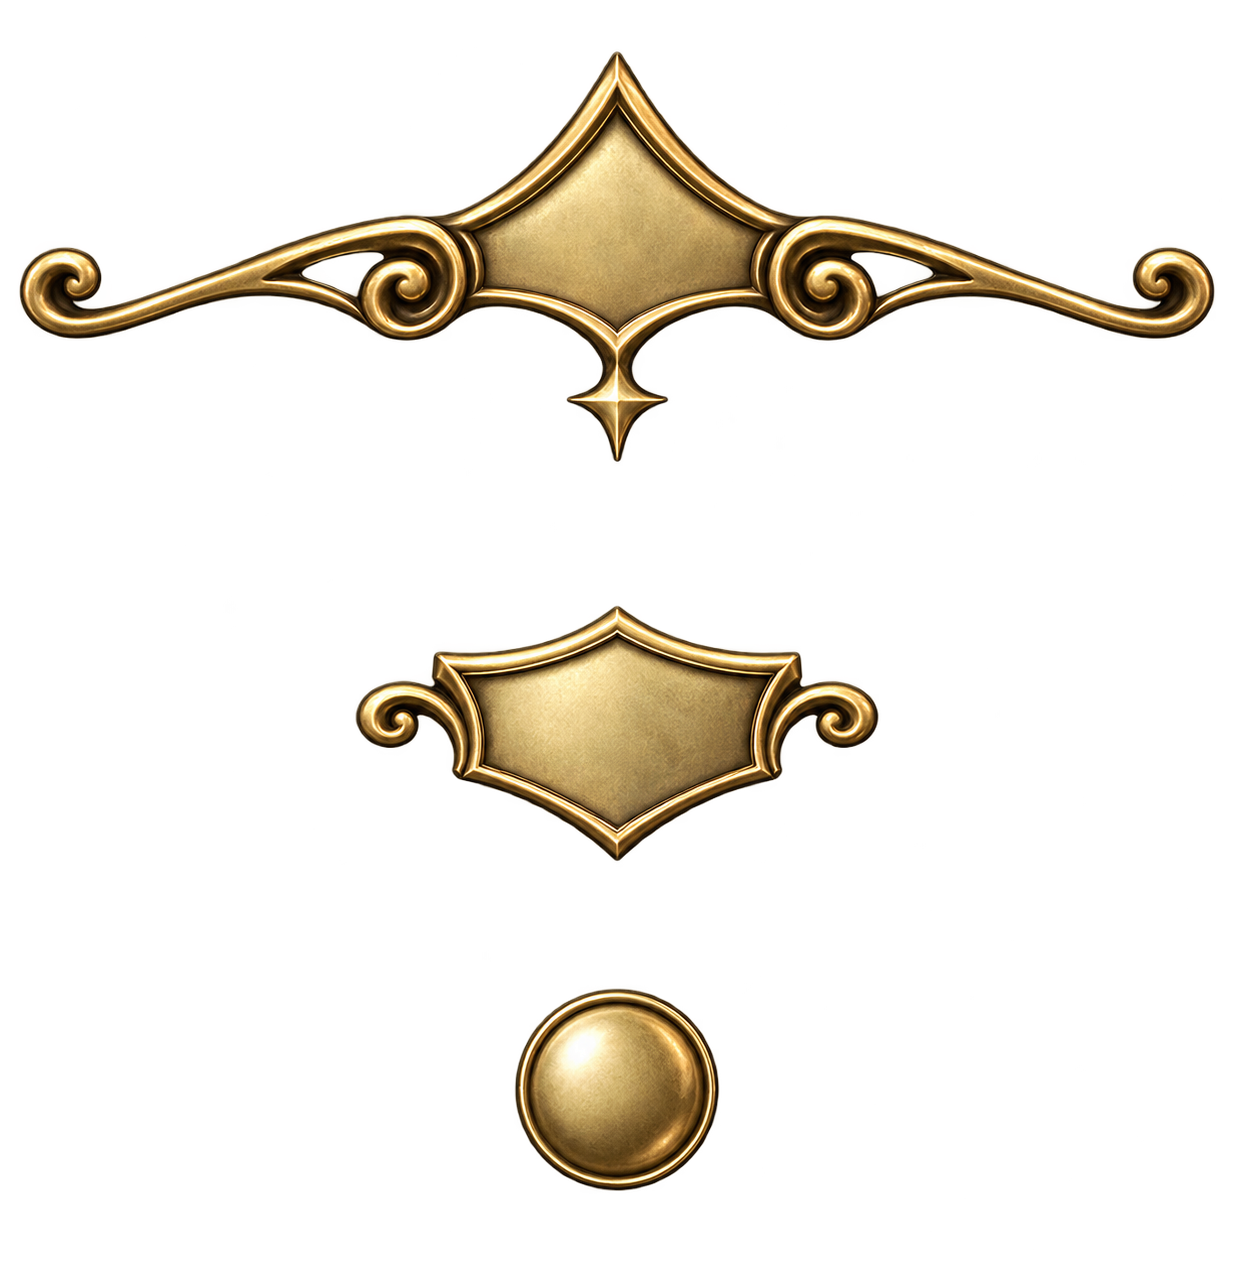
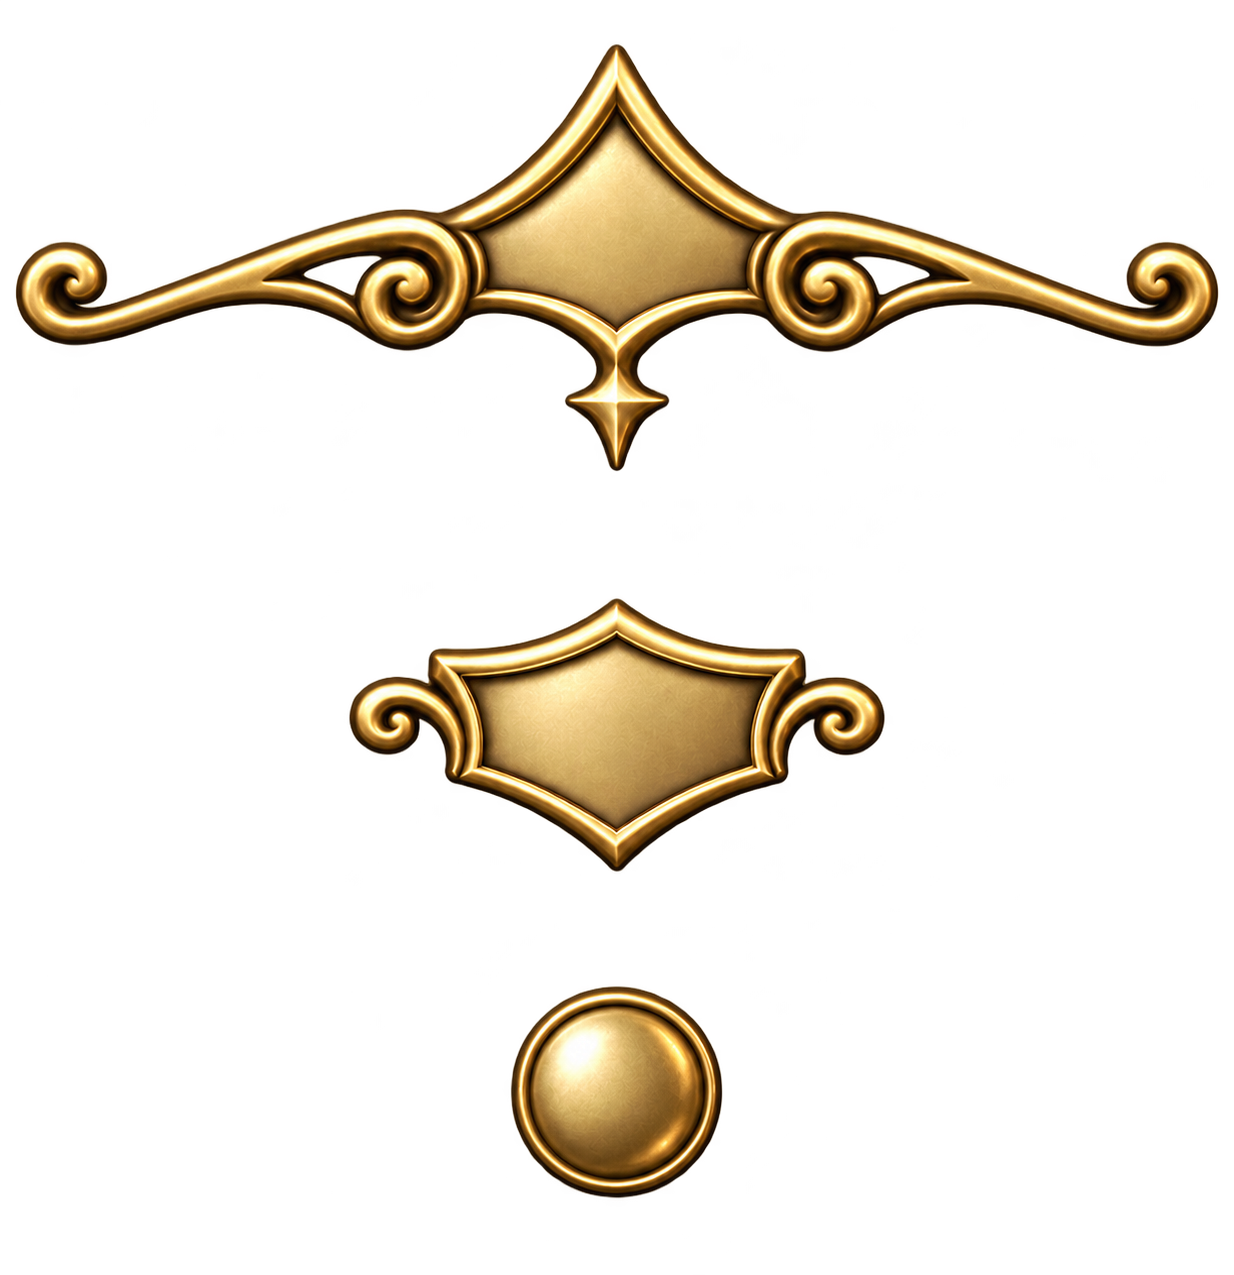
Restore ornate compass fittings with thicker details and smaller side letters

Changed region(s): [[0.0, 0.0306, 0.9854, 0.3673], [0.2771, 0.4592, 0.7391, 0.7041], [0.4003, 0.7653, 0.5851, 0.949]]

diff --git a/css/compass_hud.css b/css/compass_hud.css
@@ -338,28 +338,33 @@ body.compass-hud #compass-inventory-shutter {filter:brightness(.85);}
 body:not(.compass-round) .compass-bearing {display:none;}
 .compass-rim-art {display:block;width:100%;height:100%;overflow:visible;}
 .compass-bearing span {position:absolute;display:grid;place-items:center;width:6%;height:6%;padding:0;transform:translate(-50%,-50%);filter:brightness(1.18) drop-shadow(0 2px 2px #000c) drop-shadow(0 0 1px #000);}
-.compass-bearing b {display:block;font:700 calc(var(--compass-map-size) * .036) / 1 Georgia,serif;color:#3e2b15;text-shadow:0 .65px .2px #f7e4b3;transform-origin:center;}
+.compass-bearing b {display:block;font:700 calc(var(--compass-map-size) * .036 - 1pt) / 1 Georgia,serif;color:#3e2b15;text-shadow:0 .65px .2px #f7e4b3;transform-origin:center;}
 .compass-bearing .compass-north {left:50%;top:calc(3% - 4px);}
 .compass-bearing .compass-north b {font-size:calc(var(--compass-map-size) * .043);}
 .compass-bearing .compass-east {left:calc(98% + 4px);top:50%;}
 .compass-bearing .compass-south {left:50%;top:calc(98% + 4px);}
 .compass-bearing .compass-west {left:calc(2% - 4px);top:50%;}
 
-/* Broad, clean fittings stay legible at phone size. Each direction uses a
-   standalone vector, so atlas neighbours and textured alpha cannot bleed in. */
+/* Preserve each atlas rectangle's native aspect ratio; never stretch the metal.
+   Generated transparent PNG fittings; CSS selects atlas rectangles without
+   resampling the master. Background coordinates are recorded in the art manifest. */
 .compass-bearing span::before,.compass-bead {
-  content:'';position:absolute;background-repeat:no-repeat;background-size:100% 100%;pointer-events:none;
+  content:'';position:absolute;background-image:url('../assets/ui/compass/gold-fittings.png');
+  background-repeat:no-repeat;pointer-events:none;
 }
-.compass-bearing span::before {left:50%;top:50%;width:140%;height:auto;aspect-ratio:2 / 1;transform:translate(-50%,-50%);background-image:url('../assets/ui/compass/cardinal-fitting.svg');}
+.compass-bearing span::before {left:50%;top:50%;width:140%;height:auto;aspect-ratio:546 / 284;transform:translate(-50%,-50%);}
 .compass-bearing b {position:relative;z-index:1;}
-.compass-bearing .compass-north::before {width:330%;aspect-ratio:3 / 1;background-image:url('../assets/ui/compass/north-fitting.svg');}
+.compass-bearing .compass-north::before {width:330%;height:auto;aspect-ratio:1214 / 438;}
 .compass-bearing .compass-east::before {transform:translate(-50%,-50%) rotate(-90deg);}
 .compass-bearing .compass-west::before {transform:translate(-50%,-50%) rotate(90deg);}
-.compass-bead {width:1.4%;height:auto;aspect-ratio:214 / 212;transform:translate(-50%,-50%);background-image:url('../assets/ui/compass/gold-fittings.png');background-size:576.635514% 600.943396%;background-position:50.000000% 92.655367%;}
+.compass-bead {width:1.4%;height:auto;aspect-ratio:223 / 223;transform:translate(-50%,-50%);}
 .compass-bead-ne {left:84.9134%;top:15.0866%;}
 .compass-bead-se {left:84.9134%;top:84.9134%;}
 .compass-bead-sw {left:15.0866%;top:84.9134%;}
 .compass-bead-nw {left:15.0866%;top:15.0866%;}
+.compass-bearing span::before {background-size:226.007326% 448.943662%;background-position:50.000000% 59.838547%;}
+.compass-bearing .compass-north::before {background-size:101.647446% 291.095890%;background-position:50.000000% 4.659498%;}
+.compass-bead {background-size:553.363229% 571.748879%;background-position:49.950544% 93.250951%;}
 
 /* Compact opposed plungers in a silver rack housing. */
 body.compass-hud > #map-zoom {

diff --git a/sw.js b/sw.js
@@ -1,7 +1,7 @@
 // Content-addressed resources survive deployments. HTML stays network-first;
 // tiles retain their independent offline cache. Keep two shell generations so
 // old tabs can still request their exact script URLs after a worker update.
-const SHELL_VERSION = 'shell-bef06164';
+const SHELL_VERSION = 'shell-80a24e77';
 
 const RESOURCE_CACHE = 'terracart-resources-v1';
 const RESOURCE_MANIFEST = './__terracart_resource_manifest__';
@@ -918,16 +918,14 @@ const ASSET_HASHES = {
   "assets/portraits/witness.png": "20421b46",
   "assets/portraits/wizard.png": "d58efb40",
   "assets/ui/compass/body-carving.webp": "ba67176c",
-  "assets/ui/compass/cardinal-fitting.svg": "2e84ff3a",
   "assets/ui/compass/footer.webp": "cf76e3c7",
-  "assets/ui/compass/gold-fittings.png": "2c0eb8ff",
+  "assets/ui/compass/gold-fittings.png": "f2de995b",
   "assets/ui/compass/gold-rim.svg": "cf748ed9",
   "assets/ui/compass/header.webp": "3001dc79",
   "assets/ui/compass/joystick.webp": "5d57c13f",
   "assets/ui/compass/living-silver-body.webp": "4b3053a8",
   "assets/ui/compass/memory-star.svg": "c3041026",
   "assets/ui/compass/north-arrow.webp": "d656d114",
-  "assets/ui/compass/north-fitting.svg": "76515a68",
   "assets/ui/compass/panel-top.webp": "02579d75",
   "assets/ui/compass/reference-carving-tile.webp": "e3c0c746",
   "assets/ui/compass/reference-footer.webp": "0a76137f",

diff --git a/index.html b/index.html
@@ -1204,7 +1204,7 @@
     #howto button#howto-close[hidden] { display: none; }
   </style>
   <link rel="stylesheet" href="css/compass_shine.css?v=2196f9a5">
-  <link rel="stylesheet" href="css/compass_hud.css?v=941e702c">
+  <link rel="stylesheet" href="css/compass_hud.css?v=4d036c85">
   <link rel="stylesheet" href="css/compass_inventory.css?v=5165fdcf">
   <link rel="stylesheet" href="css/compass_panels.css?v=c44424bf">
   <link rel="stylesheet" href="css/speech_bubbles.css?v=3f5404dc">

diff --git a/docs/design/presentation.md b/docs/design/presentation.md
@@ -48,14 +48,14 @@ changing dialogue, story panels, books, toasts or status presentation.
   close-contact socket shadows and compact recessed category glyphs seat the controls in
   the chassis. Neutral pewter faces and rims match the carved background while
   controls retain brighter text and icons. The fade excludes
-  the circular map aperture. The compass rim is a fine gold celestial inlay: a broad, faceted north
+  the circular map aperture. The compass rim is a fine gold celestial inlay: a shallow, flourished north
   triangle, larger embossed cardinal letters with brighter fittings and dark drop shadows, small gold beads at the four
   45-degree diagonals, and eight engraved intermediate 22.5-degree marks
   contained in the band. The rim follows compass heading while all four
   letters counterrotate to stay upright. `assets/ui/compass/gold-rim.svg`
-  owns the band and engravings; standalone `north-fitting.svg` and `cardinal-fitting.svg` supply
-  simple gold letter plates without fine curls or texture; the small diagonal
-  beads retain their `gold-fittings.png` atlas crop. The gold overlay
+  owns the band and engravings; transparent `gold-fittings.png` sprites supply
+  sculpted metal ornaments with broad raised edges and curled flourishes.
+  E/S/W letters are 1 pt smaller than their original scale; north retains its larger type. The gold overlay
   sits outside the silver chassis dimming and uses the controls' brightness,
   with warmer saturation to match their gold. Its letter seats match the HUD CSS.
 
